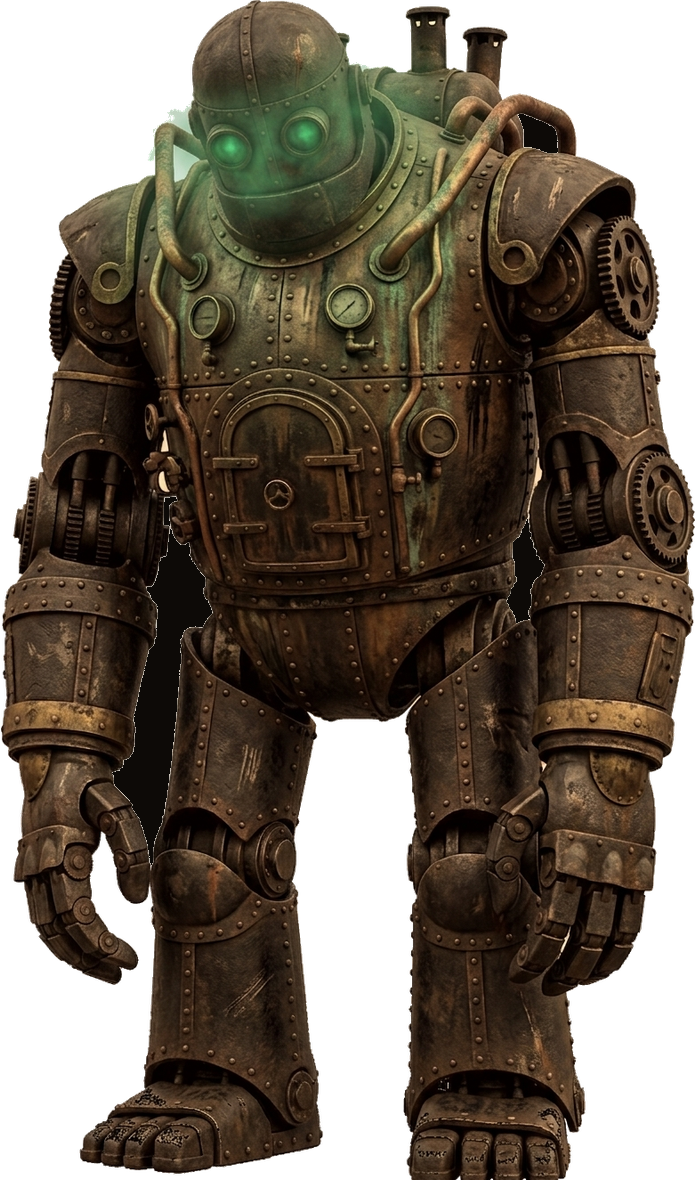
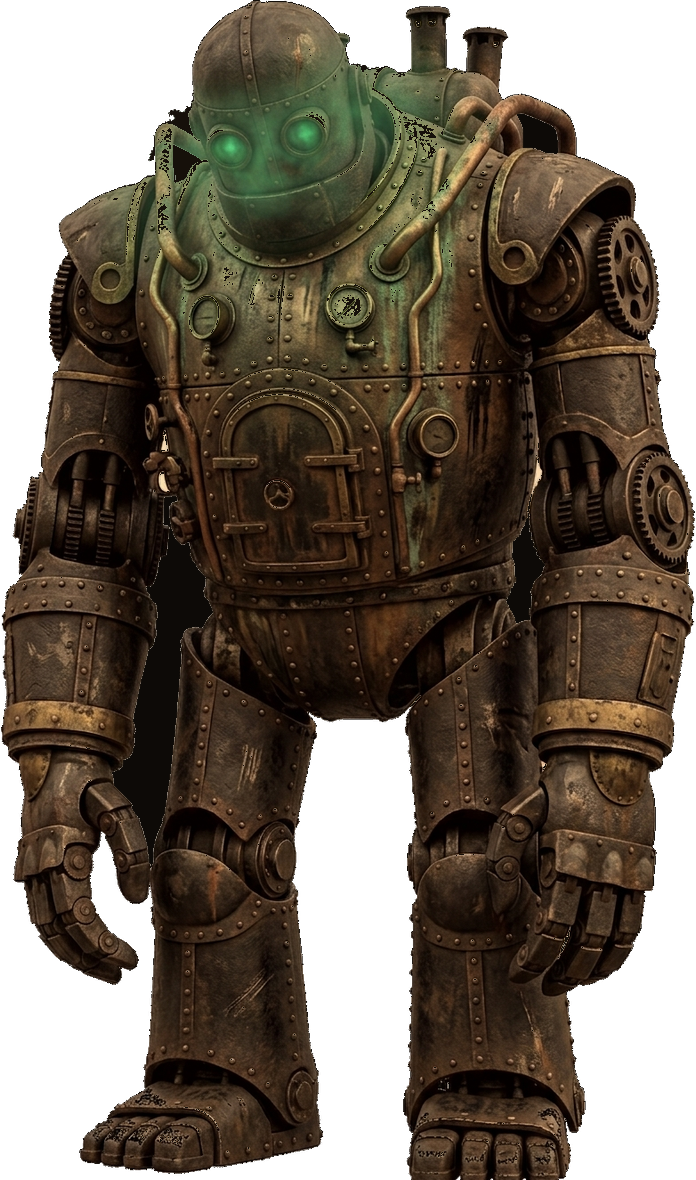
## White Specks Eliminated (verified against your circled screenshot) - All 5 circled spots are gone: left golem's arm speck + the white streaks and tan haze under his feet, and the right golem's chest-door and arm specks — his feet now sit in natural floor shadow - Root cause: the specks were semi-

diff --git a/frontend/src/components/scenes/AmbianceScene.jsx b/frontend/src/components/scenes/AmbianceScene.jsx
@@ -208,7 +208,7 @@ function useCoverAnchor(natW, natH) {
 
 export const AMBIANCE = {
   cyber: { grad: "linear-gradient(180deg,#070A16 0%,#0C1030 46%,#160A28 100%)", skyline: "/cyber-skyline.png", neon: "/cyber-neon-logo.png", cars: "/cyber-car.png", cars2: "/cyber-car2.png", spinner: "/cyber-spinner-suv.png", bus: "/cyber-bus.png", bus2: "/cyber-bus2.png", saucer: "/cyber-saucer-mech.png", saucerFront: "/cyber-saucer-mech-front.png", rain: true, accent: "#22E0E0", sky: "#C77DFF" },
-  steam: { grad: "linear-gradient(180deg,#17100A 0%,#241708 55%,#130C06 100%)", wall: "/steam-wall-full.png", golemLeft: "/steam-golem-left.png?v=462", golemRight: "/steam-golem-right.png?v=462", steam: true, roofCables: true, floor: true, accent: "#D9A44E", sky: "#F1D9A6" },
+  steam: { grad: "linear-gradient(180deg,#17100A 0%,#241708 55%,#130C06 100%)", wall: "/steam-wall-full.png", golemLeft: "/steam-golem-left.png?v=503", golemRight: "/steam-golem-right.png?v=501", steam: true, roofCables: true, floor: true, accent: "#D9A44E", sky: "#F1D9A6" },
   tiki:  { grad: "linear-gradient(180deg,#2A140A 0%,#3A1C0E 46%,#180D07 100%)", lounge: "/tiki-lounge-full.png", accent: "#F0A24E", sky: "#FBE3C0" },
   fantasy: { grad: "linear-gradient(180deg,#1A0E08 0%,#120A06 55%,#080503 100%)", hoard: "/fantasy-cave.jpg", accent: "#E6B23A", sky: "#F3D9A0" },
   fairy: { grad: "linear-gradient(180deg,#0B1F14 0%,#123024 50%,#081710 100%)", gully: "/fairy-gully.png", accent: "#5EE0A8", sky: "#CFF5DC" },
@@ -480,7 +480,7 @@ function useGolemWake(enabled) {
   const witnessRef = useHeistWitness("awakening");
   useEffect(() => {
     if (!enabled) return undefined;
-    ["/steam-golem-right-awake.png", "/steam-golem-right-step.png?v=490", "/steam-golem-right-lift.png?v=475"].forEach((s) => { const im = new Image(); im.src = s; });
+    ["/steam-golem-right-awake.png?v=501", "/steam-golem-right-step.png?v=501", "/steam-golem-right-lift.png?v=501"].forEach((s) => { const im = new Image(); im.src = s; });
     preloadHeistAudio(["/golem-wake-up.mp3", "/golem-step-forward.mp3", "/golem-thud.wav", "/golem-step-back.mp3", "/golem-power-down.mp3"]);
     let timers = [];
     let pending;
@@ -868,9 +868,9 @@ export function AmbianceScene({ theme, cfg, heistEpoch = 0 }) {
           {/* pose stack: sleeping / awake / knee lifted / foot planted forward */}
           <div className="absolute inset-0" style={{ transformOrigin: "50% 100%", animation: golemWake === 1 ? "ffGolemRumble 0.4s linear 3" : golemWake === 2 || golemWake === 4 ? "ffGolemStepLift 1.2s cubic-bezier(0.4,0,0.5,1) forwards" : golemWake === 3 || golemWake === 5 ? "ffGolemStepSettle 1.2s cubic-bezier(0.45,0,0.55,1)" : undefined }}>
             <img src={cfg.golemRight} alt="" className="absolute inset-0 h-full w-full object-contain" style={{ opacity: golemWake === 0 || golemWake === 6 ? 1 : 0, transition: "opacity 0.5s ease", filter: "drop-shadow(0 6px 10px rgba(0,0,0,0.55)) brightness(0.92)" }} />
-            <img src="/steam-golem-right-awake.png" alt="" className="absolute inset-0 h-full w-full object-contain" style={{ opacity: golemWake === 1 || golemWake === 5 ? 1 : 0, transition: "opacity 0.5s ease", filter: "drop-shadow(0 6px 10px rgba(0,0,0,0.55)) brightness(0.92)" }} data-testid="golem-wake-awake" />
-            <img src="/steam-golem-right-lift.png?v=475" alt="" className="absolute inset-0 h-full w-full object-contain" style={{ opacity: golemWake === 2 || golemWake === 4 ? 1 : 0, transition: "opacity 0.5s ease", filter: "drop-shadow(0 6px 10px rgba(0,0,0,0.55)) brightness(0.92)" }} data-testid="golem-wake-lift" />
-            <img src="/steam-golem-right-step.png?v=490" alt="" className="absolute inset-0 h-full w-full object-contain" style={{ opacity: golemWake === 3 ? 1 : 0, transition: "opacity 0.5s ease", filter: "drop-shadow(0 6px 10px rgba(0,0,0,0.55)) brightness(0.92)" }} data-testid="golem-wake-step" />
+            <img src="/steam-golem-right-awake.png?v=501" alt="" className="absolute inset-0 h-full w-full object-contain" style={{ opacity: golemWake === 1 || golemWake === 5 ? 1 : 0, transition: "opacity 0.5s ease", filter: "drop-shadow(0 6px 10px rgba(0,0,0,0.55)) brightness(0.92)" }} data-testid="golem-wake-awake" />
+            <img src="/steam-golem-right-lift.png?v=501" alt="" className="absolute inset-0 h-full w-full object-contain" style={{ opacity: golemWake === 2 || golemWake === 4 ? 1 : 0, transition: "opacity 0.5s ease", filter: "drop-shadow(0 6px 10px rgba(0,0,0,0.55)) brightness(0.92)" }} data-testid="golem-wake-lift" />
+            <img src="/steam-golem-right-step.png?v=501" alt="" className="absolute inset-0 h-full w-full object-contain" style={{ opacity: golemWake === 3 ? 1 : 0, transition: "opacity 0.5s ease", filter: "drop-shadow(0 6px 10px rgba(0,0,0,0.55)) brightness(0.92)" }} data-testid="golem-wake-step" />
             {/* smoky green aura around the head while he's awake */}
             {golemWake >= 1 && golemWake <= 5 && (
               <div className="absolute" style={{ left: "22%", top: "1%", width: "26%", aspectRatio: "1" }} data-testid="golem-wake-aura">
@@ -949,20 +949,20 @@ export function AmbianceScene({ theme, cfg, heistEpoch = 0 }) {
       )}
       {/* WORKSHOP PROPS: valve pedestal (L), robot on assembly rack (M), alchemy bench (R) */}
       {cfg.golemLeft && [
-        { src: "/steam-valve-pedestal.png?v=491", ar: "433 / 735", cls: "left-[calc(50%-48vh)] h-[28vh]", tid: "steam-valve-pedestal",
+        { src: "/steam-valve-pedestal.png?v=501", ar: "433 / 735", cls: "left-[calc(50%-48vh)] h-[28vh]", tid: "steam-valve-pedestal",
           lamps: [
             // front-face fixtures (a vertical trio between the hatch covers and the seam)
             { x: 37.5, y: 43, c: "#FFB03A", d: 1.7, dl: 0.1 }, { x: 37.5, y: 53, c: "#7CE08A", d: 2.2, dl: 0.7 }, { x: 37.5, y: 63, c: "#FF5540", d: 1.5, dl: 1.3 },
             // the sprite's real bulb column on the right face
             { x: 70.9, y: 40, c: "#FFB03A", d: 2.4, dl: 0 }, { x: 70.9, y: 50.2, c: "#FF5540", d: 1.9, dl: 0.5 }, { x: 70.9, y: 59, c: "#FF8A3A", d: 2.1, dl: 1 }, { x: 70.9, y: 67.9, c: "#FF5540", d: 1.6, dl: 1.5 },
           ] },
-        { src: "/steam-robot-rack.png?v=494", ar: "558 / 742", cls: "left-1/2 -translate-x-1/2 h-[78vh]", tid: "steam-robot-rack",
+        { src: "/steam-robot-rack.png?v=501", ar: "558 / 742", cls: "left-1/2 -translate-x-1/2 h-[78vh]", tid: "steam-robot-rack",
           lamps: [{ x: 71.3, y: 29.4, c: "#FFB03A", d: 2.1, dl: 0.3 }, { x: 71.3, y: 33.1, c: "#FF7A30", d: 1.7, dl: 0.9 }],
           eye: { x: 31.5, y: 20 },
-          alert: "/steam-robot-rack-alert.png?v=494",
+          alert: "/steam-robot-rack-alert.png?v=501",
           alertEyes: [{ x: 33.3, y: 15.4 }, { x: 39.7, y: 15.4 }],
           sparks: { x: 65, y: 39 } },
-        { src: "/steam-alchemy-bench.png?v=491", ar: "966 / 765", cls: "left-[calc(50%+31vh)] h-[25.5vh]", tid: "steam-alchemy-bench",
+        { src: "/steam-alchemy-bench.png?v=501", ar: "966 / 765", cls: "left-[calc(50%+31vh)] h-[25.5vh]", tid: "steam-alchemy-bench",
           lamps: [{ x: 56.1, y: 38.2, c: "#FFB03A", d: 1.6, dl: 0 }, { x: 61.7, y: 39, c: "#FFB03A", d: 2.3, dl: 0.5 }, { x: 73.5, y: 41.6, c: "#FF5540", d: 1.9, dl: 1.1 }] },
       ].map((p) => (
         <div key={p.tid} className={`absolute bottom-[0.5vh] z-[3] hidden sm:block ${p.cls}`} style={{ aspectRatio: p.ar }} data-testid={p.tid}>
@@ -999,7 +999,7 @@ export function AmbianceScene({ theme, cfg, heistEpoch = 0 }) {
       {cfg.golemLeft && (
         <div className="absolute bottom-[0.6vh] left-[calc(50%+8vh)] z-[3] hidden sm:block" style={{ width: "22vh", aspectRatio: "832 / 558" }} data-testid="steam-arm-floor">
           <div className="absolute left-1/2 -translate-x-1/2" style={{ bottom: "-0.4vh", width: "86%", height: "1.8vh", background: "radial-gradient(ellipse, rgba(0,0,0,0.6), rgba(0,0,0,0) 68%)" }} />
-          <img src="/steam-arm-unfinished.png?v=494" alt="" className="absolute inset-0 h-full w-full object-contain" style={{ transform: "scaleX(-1)", filter: "drop-shadow(0 3px 5px rgba(0,0,0,0.5)) brightness(0.92)" }} />
+          <img src="/steam-arm-unfinished.png?v=501" alt="" className="absolute inset-0 h-full w-full object-contain" style={{ transform: "scaleX(-1)", filter: "drop-shadow(0 3px 5px rgba(0,0,0,0.5)) brightness(0.92)" }} />
         </div>
       )}
       {cfg.roofCables && STEAM_CABLES.map((c, i) => (

diff --git a/frontend/public/index.html b/frontend/public/index.html
@@ -60,7 +60,7 @@
         <title>Fork·Fate — Restaurant Roulette</title>
         <script>window.addEventListener("error",function(e){if(e.error instanceof DOMException&&e.error.name==="DataCloneError"&&e.message&&e.message.includes("PerformanceServerTiming")){e.stopImmediatePropagation();e.preventDefault()}},true);</script>
         <script>(function(){try{if('serviceWorker' in navigator){window.addEventListener('load',function(){navigator.serviceWorker.register('/service-worker.js',{scope:'/'}).catch(function(){});});}}catch(e){}})();</script>
-        <script>(function(){try{var FF_BUILD="2026.06-500";var prev=localStorage.getItem("ff_build");if(prev!==FF_BUILD){localStorage.setItem("ff_build",FF_BUILD);if(window.caches&&caches.keys){caches.keys().then(function(keys){keys.forEach(function(k){caches.delete(k);});});}if(prev&&!sessionStorage.getItem("ff_build_reloaded")){sessionStorage.setItem("ff_build_reloaded","1");location.reload(true);}}}catch(e){}})();</script>
+        <script>(function(){try{var FF_BUILD="2026.06-503";var prev=localStorage.getItem("ff_build");if(prev!==FF_BUILD){localStorage.setItem("ff_build",FF_BUILD);if(window.caches&&caches.keys){caches.keys().then(function(keys){keys.forEach(function(k){caches.delete(k);});});}if(prev&&!sessionStorage.getItem("ff_build_reloaded")){sessionStorage.setItem("ff_build_reloaded","1");location.reload(true);}}}catch(e){}})();</script>
         <script src="https://assets.emergent.sh/scripts/emergent-main.js"></script>
         <!-- Google Analytics 4 -->
         <script async src="https://www.googletagmanager.com/gtag/js?id=G-4E739B8J0H"></script>

diff --git a/memory/CHANGELOG.md b/memory/CHANGELOG.md
@@ -892,3 +892,15 @@ ROADMAP idea (user): future categories beyond food/drinks/bars/desserts -> antiq
 - LANDSCAPE: manifest.json orientation "portrait" -> "any". Verified served +
   landscape layout (844x390) renders the sm layout fine. NOTE: installed PWAs
   pick up manifest orientation on app update; some devices need reinstall.
+
+## 2026-02 (fork) — Golem white specks + landscape support resolved (FF_BUILD 499-503)
+- Goggles/mask hidden on mobile (were under right golem's feet on live phones).
+- manifest orientation -> "any"; landscape verified. Diagnosed user's phone:
+  rotation worked once auto-rotate/Chrome-tab confusion resolved.
+- WHITE SPECKS (user circled live screenshot): they were (a) semi-transparent
+  bright remnants and (b) light-TAN opaque artifacts (dodge min-channel
+  filters). Cleaned via scripts inline: ghost alpha<200&lum>140 -> erased;
+  lum/chroma graded pull to DARK(24,18,12); left golem floor-strip (y>86%)
+  darkened harder to kill tan haze under feet. ALL steam sprites treated
+  (golems, 3 pose frames, rack, alert, arm, valve, bench). All ?v=501-503.
+- FF_BUILD 503. User must REDEPLOY to push to fork-fate.com.
